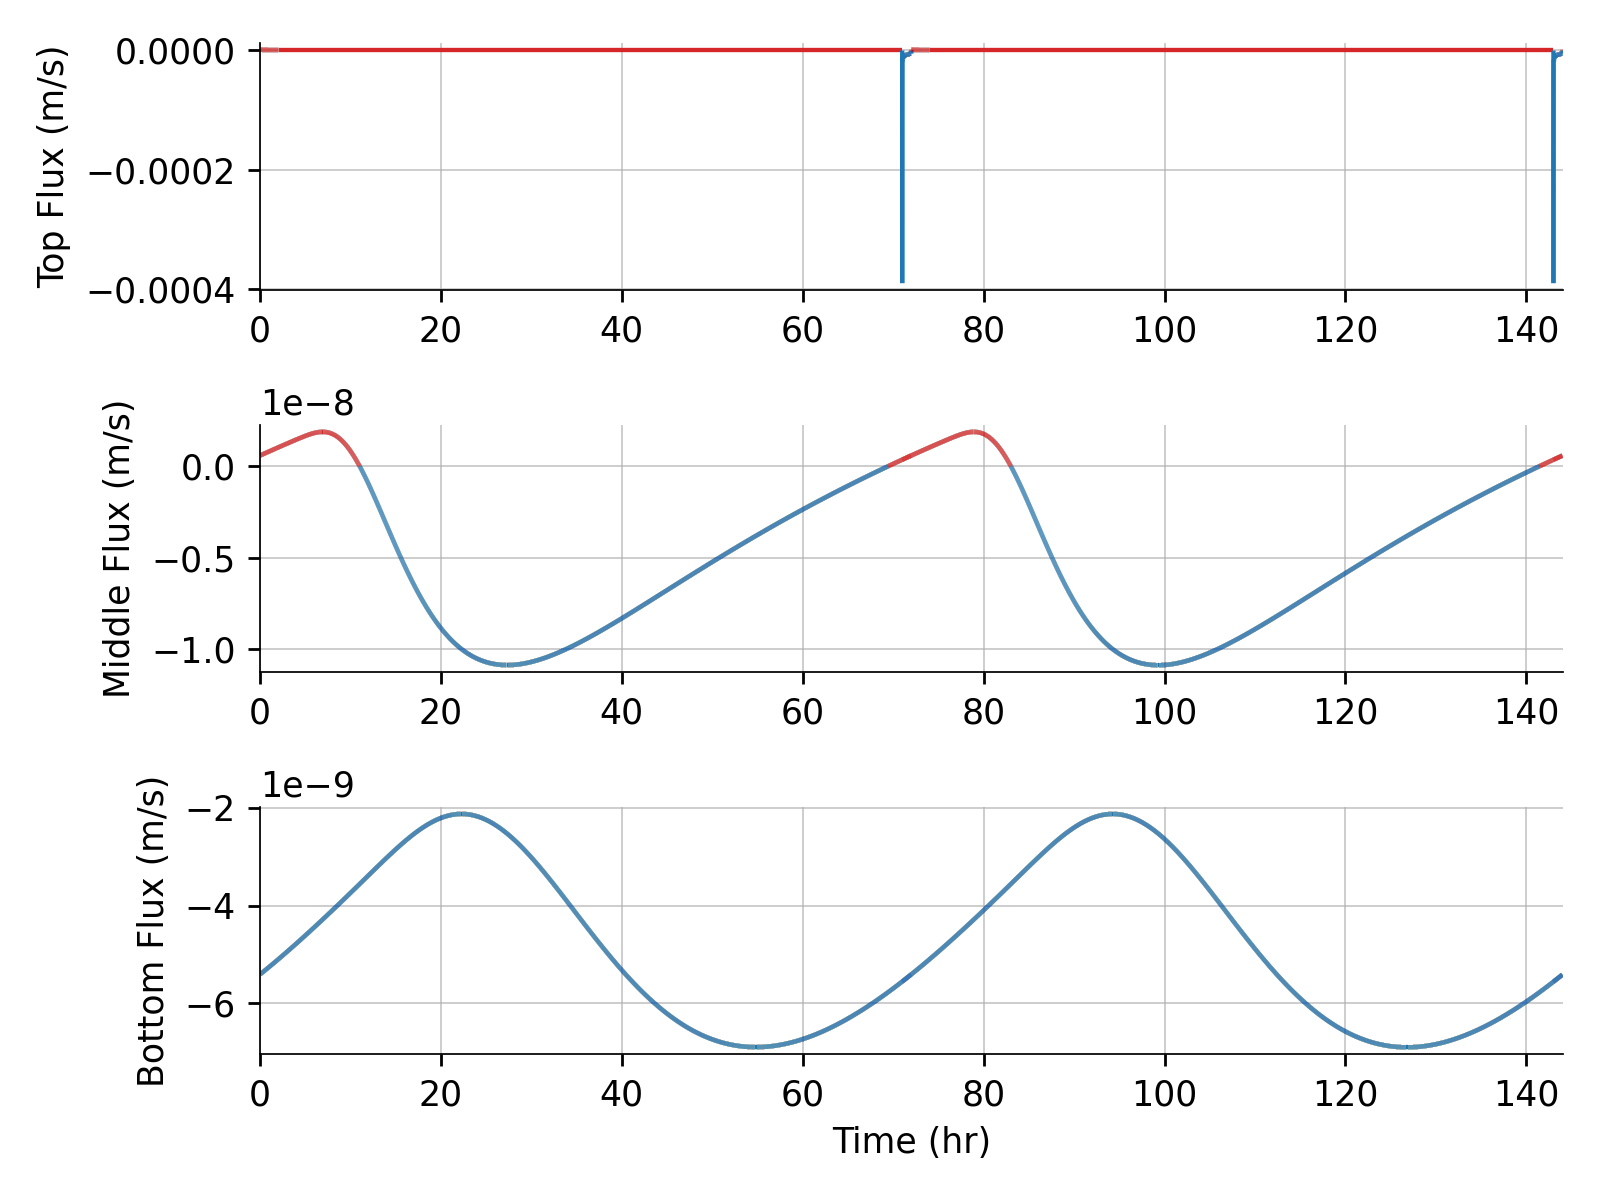
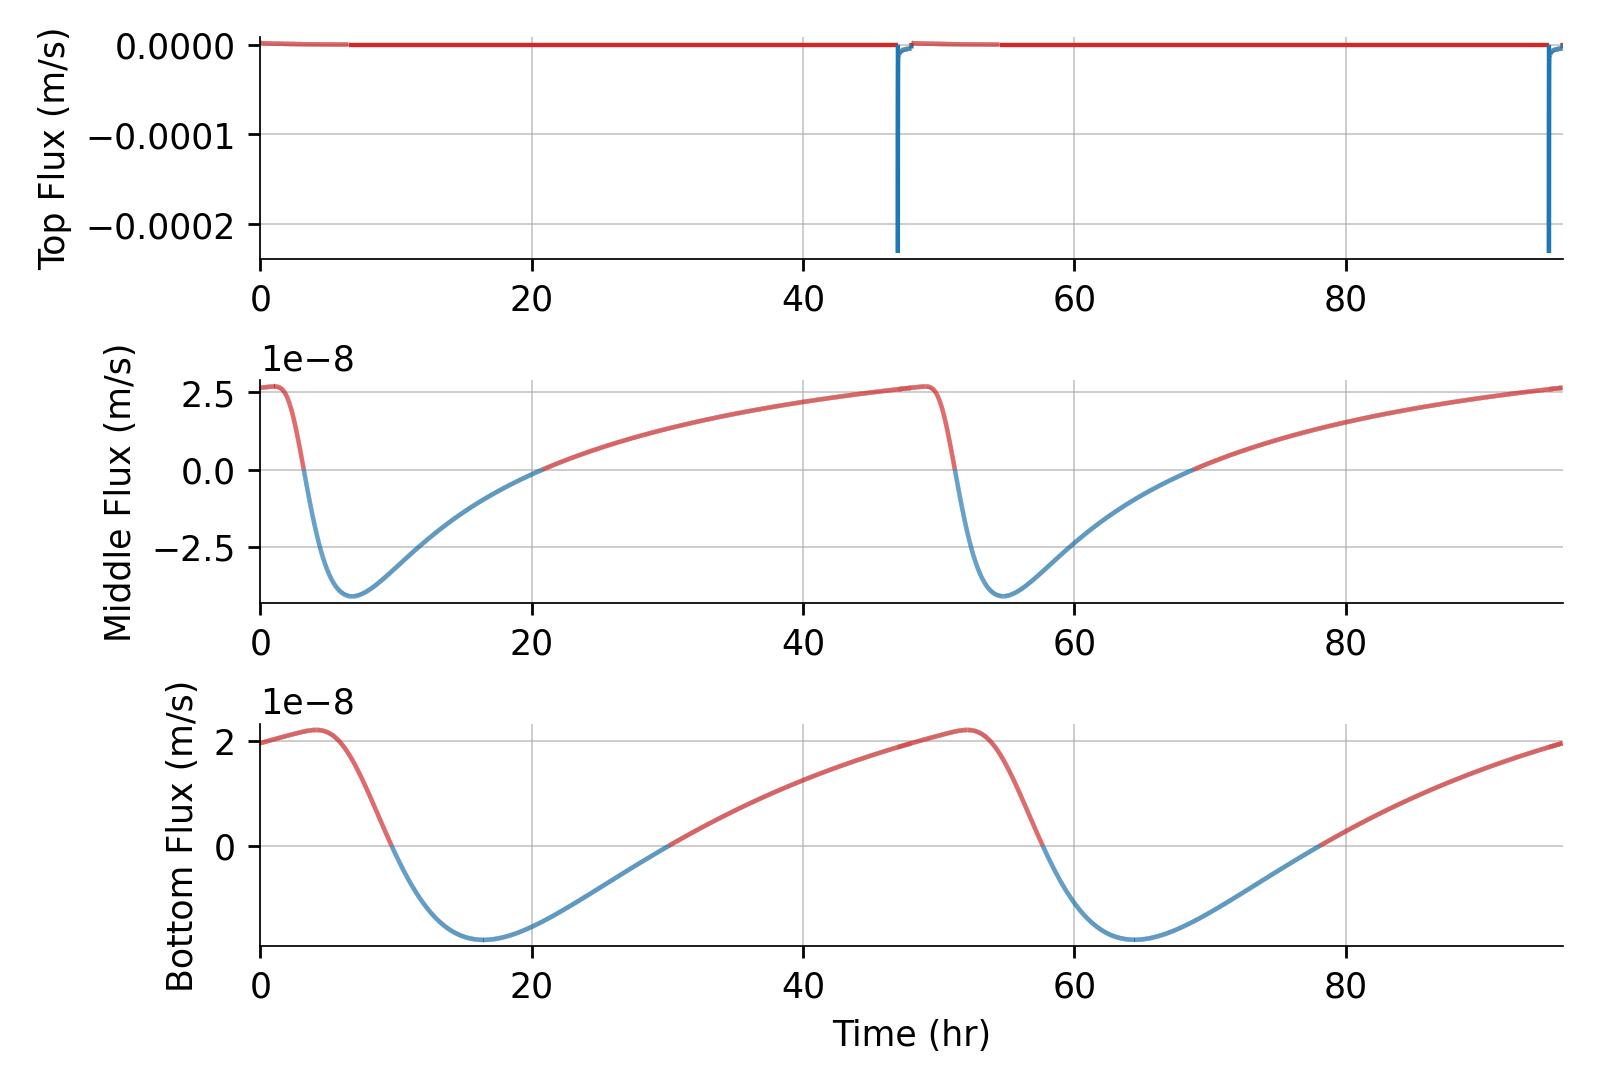
update readme mostly

diff --git a/README.md b/README.md
@@ -9,8 +9,27 @@ The model is written in C++ and it depends on an external library of ODE solvers
 
 For more details, see the [documentation](https://wordsworthgroup.github.io/Richards/).
 
+---------------------------------------------------
+
+The plots below show an example simulation with a model domain 1 meter deep. Every 2 days, the top boundary is completely wet for one hour, as if it were raining hard. After the one hour wet period, moisture is allowed to evaporate from the surface. The bottom boundary is always fully saturated, as if it were the water table.
+
+These plots can be generated, after compiling the model, with:
+```shell
+python clean.py out
+./bin/richards_periodic.exe settings.txt out
+cd scripts
+python plot_period.py
+cd ..
+```
+
+The first plot is like a [Hovmöller diagram](https://en.wikipedia.org/wiki/Hovm%C3%B6ller_diagram). It shows water flux throughout the model depth and across two wetting cycles. Red indicates upward flux and blue indicates downward flux. Every 2 days, the top of the diagram turns blue for about an hour when the surface is wet. The surface dries relatively quickly and moisture moves down the model domain, eventually causing a downward flux at the bottom boundary. The bottom boundary, however, switches between downward and upward flow, however. It's not clear from this plot whether, on average, more water is being removed from the bottom boundary that it is gaining.
+
 ![norm_flux](plots/norm_flux.png)
 
+This second plot simply shows the saturation fraction in the model domain, using the same Hovmöller style as above. The wet period at the top of the model is clear again.
+
 ![flux](plots/flux.png)
+
+This third plot shows the fluxes at the top, middle, and bottom of the model over time. At the top, the wet period manifests as a massive spike in downward (blue) water flux separated by much slower upward (red) flux as water evaporates from the soil into the atmosphere. In the middle of the domain, the wetting and drying cycles are smoothed out and slightly delayed. At the bottom, the cycle is even smoother and delayed. In this example, the bottom boundary is, on average, losing water. You can prove it by integrating the flux curve over time at any depth.
 
 ![water_frac](plots/water_frac.png)
